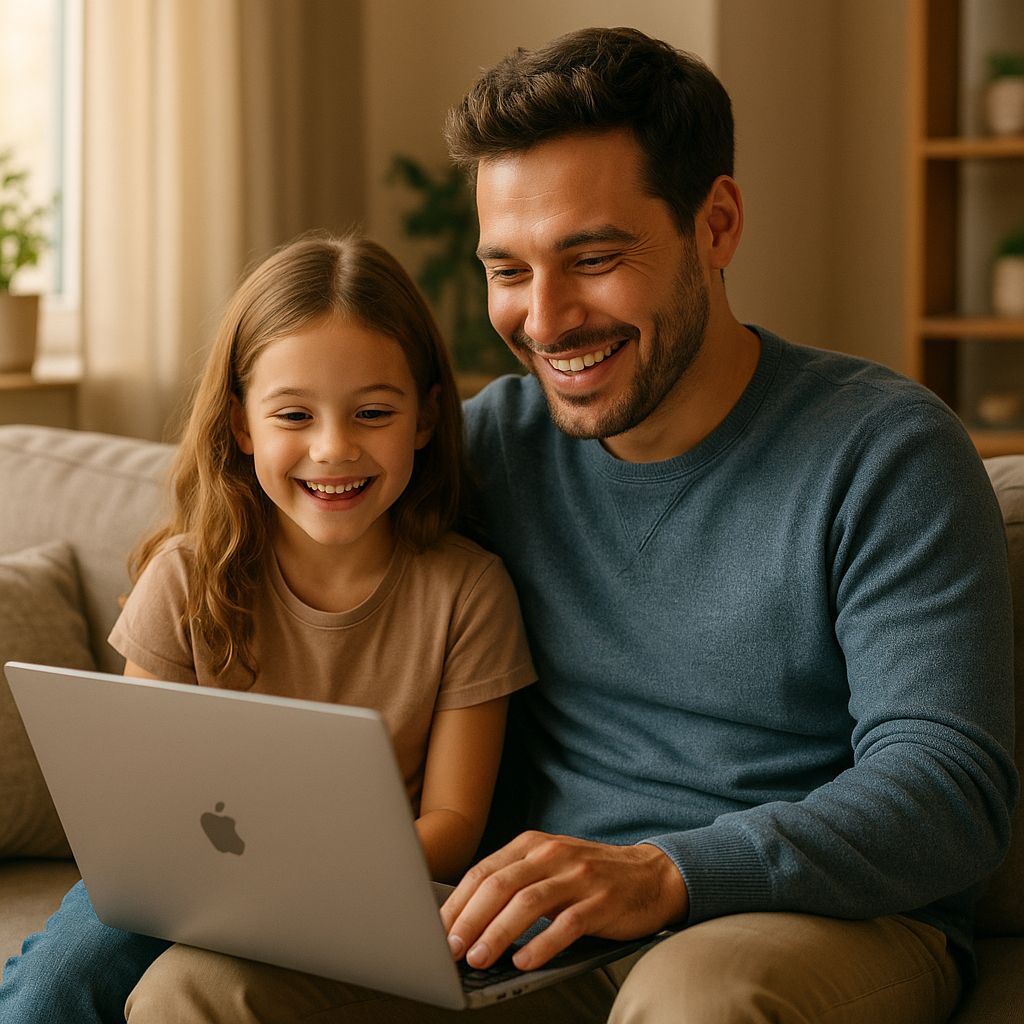
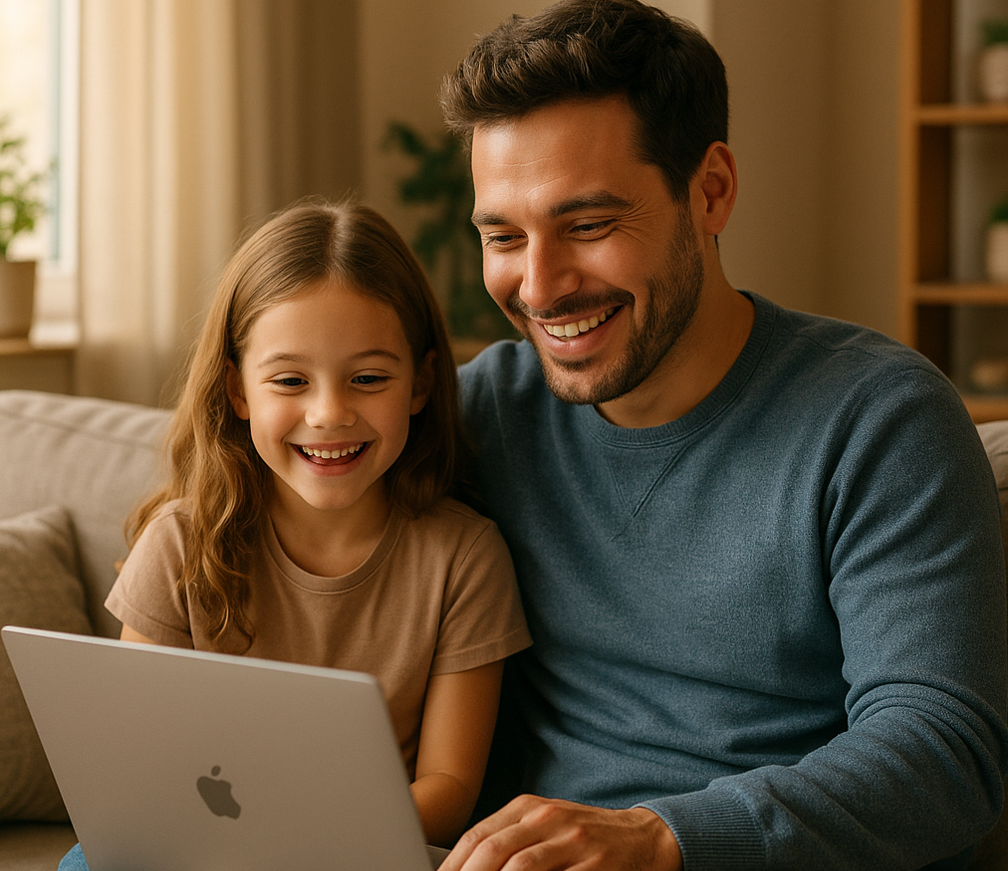
s

diff --git a/src/screens/QuienesSomos.jsx b/src/screens/QuienesSomos.jsx
@@ -5,21 +5,21 @@ import tutorImg from '../assets/tutorBib.png';
 import workImg from '../assets/padreyhijo.png';
 import { PrimaryLink } from '../components/FormElements';
 
+// Animaciones
 const fadeIn = keyframes`
   from { opacity: 0; transform: translateY(20px); }
   to   { opacity: 1; transform: translateY(0); }
 `;
-
 const slideInLeft = keyframes`
   from { opacity: 0; transform: translateX(-40px); }
   to   { opacity: 1; transform: translateX(0); }
 `;
-
 const slideInRight = keyframes`
   from { opacity: 0; transform: translateX(40px); }
   to   { opacity: 1; transform: translateX(0); }
 `;
 
+// Styled Components
 const Hero = styled.section`
   width: 100%;
   height: 500px;
@@ -29,11 +29,10 @@ const Hero = styled.section`
   align-items: center;
   justify-content: center;
   color: #fff;
-
   &:after {
     content: '';
     position: absolute;
-    top: 0; left: 0; right: 0; bottom: 0;
+    inset: 0;
     background: rgba(0,0,0,0.4);
   }
 `;
@@ -43,40 +42,31 @@ const HeroContent = styled.div`
   z-index: 1;
   text-align: center;
 `;
-
 const HeroTitle = styled.h1`
   font-size: clamp(2rem, 4vw, 3rem);
   margin: 0;
   animation: ${fadeIn} 1s ease-out;
 `;
-
 const HeroSubtitle = styled.h2`
-  font-weight: normal;
-  margin-top: 1rem;
+  font-weight: 400;
+  margin: 1rem 0 0;
   font-size: clamp(1.125rem, 3vw, 1.5rem);
   opacity: 0;
-  animation: ${fadeIn} 1s ease-out 0.2s;
-  animation-fill-mode: forwards;
+  animation: ${fadeIn} 1s ease-out 0.2s forwards;
 `;
 
 const Section = styled.section`
   padding: 3rem 1rem;
   opacity: 0;
   transition: opacity 0.6s ease-out;
-
-  &.visible {
-    opacity: 1;
-  }
+  &.visible { opacity: 1; }
 
   .slide-left,
-  .slide-right {
-    opacity: 0;
-  }
+  .slide-right { opacity: 0; }
 
   &.visible .slide-left {
     animation: ${slideInLeft} 0.8s forwards;
   }
-
   &.visible .slide-right {
     animation: ${slideInRight} 0.8s forwards;
   }
@@ -86,12 +76,12 @@ const Grid = styled.div`
   max-width: 1000px;
   margin: 0 auto;
   display: flex;
-  align-items: center;
-  gap: 2rem;
+  gap: 1.5rem;
+  align-items: flex-start;
   flex-wrap: wrap;
-
   @media (max-width: 768px) {
     flex-direction: column;
+    align-items: center;
     text-align: center;
   }
 `;
@@ -103,60 +93,64 @@ const ColText = styled.div`
 const ColImage = styled.div`
   flex: 1 1 50%;
   text-align: center;
-
   img {
     width: 100%;
-    height: 280px;
+    max-width: 600px;
+    height: auto;
+    border-radius: 8px;
     object-fit: cover;
-    border-radius: 12px;
+    display: block;
+    margin: 0 auto;
   }
 `;
 
 const SectionTitle = styled.h3`
   color: ${({ theme }) => theme.colors.primary};
   font-size: clamp(1.5rem, 3.5vw, 2rem);
-  margin-bottom: 1rem;
+  margin-bottom: 0.75rem;
 `;
-
 const SectionText = styled.p`
   font-size: clamp(1rem, 2.5vw, 1.125rem);
   line-height: 1.6;
+  margin: 0.75rem 0;
 `;
-
 const List = styled.ul`
   list-style: disc inside;
   font-size: clamp(1rem, 2.5vw, 1.125rem);
   line-height: 1.6;
   padding-left: 1rem;
+  margin: 0.75rem 0;
 `;
 
 const CommunitySection = styled(Section)`
-  background-color: #b8e6d2;
+  background-color: #f5f5f5;
+  padding: 2.5rem 1rem;
 `;
 
 const Cards = styled.div`
   display: flex;
   flex-wrap: wrap;
   justify-content: center;
-  gap: 1.5rem;
-  margin: 2rem 0;
+  gap: 1rem;
+  margin: 1.5rem 0;
 `;
-
 const Card = styled.div`
   background: #fff;
-  padding: 1.5rem 2rem;
+  padding: 1rem 1.5rem;
   border-radius: 8px;
   box-shadow: 0 2px 6px rgba(0,0,0,0.1);
   font-weight: 700;
   color: ${({ theme }) => theme.colors.primary};
-  min-width: 160px;
+  min-width: 140px;
   text-align: center;
 `;
 
 const CTAButton = styled(PrimaryLink).attrs({ accent: true })`
-  margin-top: 1.5rem;
+  margin-top: 1rem;
+  display: inline-block;
 `;
 
+// Componente
 export default function QuienesSomos() {
   const sectionsRef = useRef([]);
 
@@ -171,34 +165,35 @@ export default function QuienesSomos() {
       },
       { threshold: 0.2 }
     );
-
     sectionsRef.current.forEach(sec => sec && observer.observe(sec));
     return () => observer.disconnect();
   }, []);
 
   return (
     <>
+      {/* Hero */}
       <Hero>
         <HeroContent>
           <HeroTitle>Hola, somos Student Project</HeroTitle>
           <HeroSubtitle>
-            Conectamos familias y jóvenes profesores para que cada estudiante brille.
+            By students for students: impulsamos el potencial de cada alumno.
           </HeroSubtitle>
         </HeroContent>
       </Hero>
 
+      {/* Orígenes: texto izquierda, imagen derecha */}
       <Section ref={el => (sectionsRef.current[0] = el)}>
         <Grid>
           <ColText className="slide-left">
-            <SectionTitle>Nuestra esencia</SectionTitle>
+            <SectionTitle>Nuestros orígenes</SectionTitle>
             <SectionText>
-              Student Project nació en Sevilla cuando Carlos y Luis se dieron cuenta de lo difícil que era encontrar un profesor que encajase de verdad.
+              En marzo de 2023, en la Biblioteca de Derecho de la US, Carlos y Luis idearon Student Project tras comprobar lo difícil que era para familias encontrar tutores de confianza.
             </SectionText>
             <SectionText>
-              Empezamos ayudando a vecinos en 2019 y hoy más de 150 familias confían en nosotros para acompañar a sus hijos.
+              Ambos compartían años de experiencia dando clases particulares durante la carrera de Ingeniería Civil y querían crear una plataforma que beneficiara a estudiantes universitarios y a familias por igual.
             </SectionText>
             <SectionText>
-              Creemos que el éxito académico nace de la cercanía, la flexibilidad y la motivación personal.
+              Hoy, contamos con más de 250 tutores y la confianza de 100 familias en Sevilla, y seguimos creciendo para expandirnos a 10 ciudades en 2025.
             </SectionText>
           </ColText>
           <ColImage className="slide-right">
@@ -207,33 +202,38 @@ export default function QuienesSomos() {
         </Grid>
       </Section>
 
+      {/* Proceso: texto y luego imagen */}
       <Section ref={el => (sectionsRef.current[1] = el)}>
-        <Grid>
-          <ColImage className="slide-left">
-            <img src={workImg} alt="Padre e hijo estudiando" />
-          </ColImage>
-          <ColText className="slide-right">
+        <Grid style={{ flexDirection: 'column', alignItems: 'flex-start' }}>
+          <ColText className="slide-left">
             <SectionTitle>Cómo trabajamos</SectionTitle>
             <List>
-              <li>Cuéntanos tus necesidades en un formulario breve.</li>
-              <li>Nuestros profesores se apuntan y elegimos quién encaja mejor.</li>
-              <li>Os ponemos en contacto mediante un grupo de WhatsApp.</li>
-              <li>Facturamos cada semana de forma clara.</li>
-              <li>Clases presenciales u online, como prefieras.</li>
+              <li>Rellena un breve formulario con las materias y horarios.</li>
+              <li>Comparamos y seleccionamos al mejor tutor para las necesidades de tu hijo.</li>
+              <li>Coordinamos la primera clase mediante un grupo de WhatsApp con padres, alumno, profesor y coordinador.</li>
+              <li>Facturación semanal transparente: desde 11 €/h en Primaria hasta 13 €/h en Bachillerato.</li>
+              <li>Clases 100% presenciales u online, con la posibilidad de reprogramar hasta 3 horas antes.</li>
             </List>
           </ColText>
+          <ColImage className="slide-right">
+            <img src={workImg} alt="Padre e hijo estudiando" />
+          </ColImage>
         </Grid>
       </Section>
 
+      {/* Comunidad: tarjetas + CTA integradas */}
       <CommunitySection ref={el => (sectionsRef.current[2] = el)}>
-        <SectionTitle style={{ textAlign: 'center' }}>Nuestra comunidad</SectionTitle>
+        <SectionTitle style={{ textAlign: 'center' }}>
+          Nuestra comunidad
+        </SectionTitle>
         <Cards>
-          <Card>150+ familias</Card>
-          <Card>Expansión a 10 ciudades en 2025</Card>
+          <Card>250+ tutores universitarios</Card>
+          <Card>100+ familias satisfechas</Card>
+          <Card>En 10 ciudades en 2025</Card>
         </Cards>
         <div style={{ textAlign: 'center' }}>
           <CTAButton to="/alta">
-            Únete a Student Project y despierta tu potencial
+            Únete y despierta tu mejor versión
           </CTAButton>
         </div>
       </CommunitySection>
